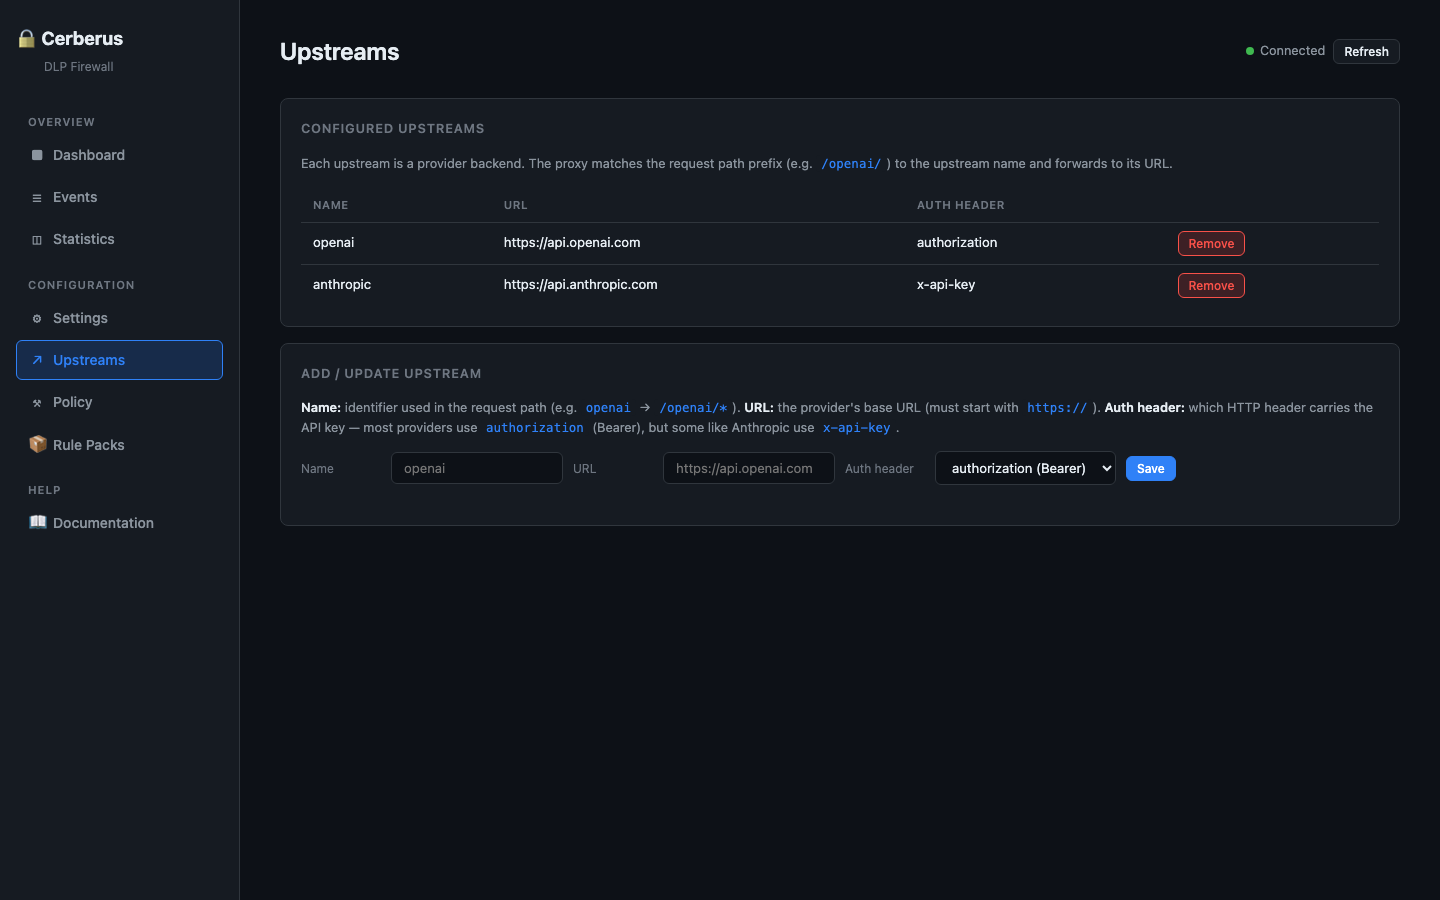
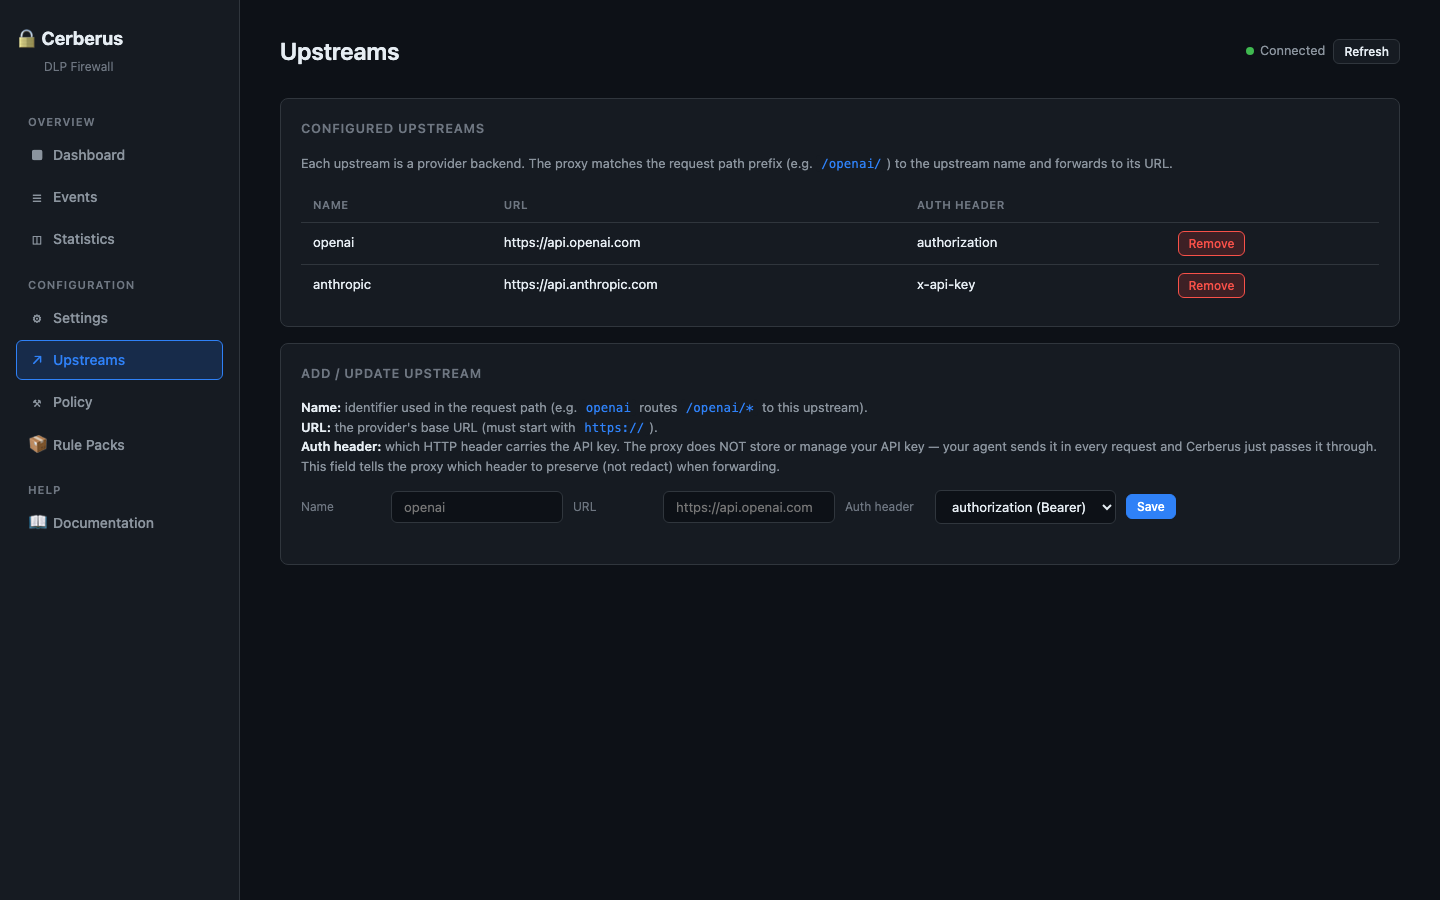
fix: render config edit form + clarify upstreams auth header
Two fixes:

1. Config edit form not rendering: the variable 'edit' was referenced
   before being declared (leftover from a refactor). Added the missing
   'const edit = document.getElementById("config-edit")' so the form
   with selects (mode, fail_policy, log_level) and inputs (listen,
   max_body_bytes, health_path) now renders correctly.

2. Upstreams auth header clarification: updated the description to
   explain that Cerberus does NOT store or manage the API key. The
   agent sends it in every request and Cerberus passes it through.
   The auth_header field tells the proxy which header to preserve
   (not redact) when forwarding.

Changed region(s): [[0.1875, 0.4356, 0.9375, 0.5911], [0.4688, 0.56, 0.625, 0.5911], [0.2812, 0.56, 0.3125, 0.5911]]

diff --git a/crates/cerberus-proxy/dashboard.html b/crates/cerberus-proxy/dashboard.html
@@ -733,9 +733,9 @@ input[type="password"] { width: 100%; max-width: 320px; }
       <div class="card">
         <div class="card-title">Add / Update Upstream</div>
         <p class="tab-desc">
-          <strong>Name:</strong> identifier used in the request path (e.g. <code>openai</code> → <code>/openai/*</code>).
-          <strong>URL:</strong> the provider's base URL (must start with <code>https://</code>).
-          <strong>Auth header:</strong> which HTTP header carries the API key — most providers use <code>authorization</code> (Bearer), but some like Anthropic use <code>x-api-key</code>.
+          <strong>Name:</strong> identifier used in the request path (e.g. <code>openai</code> routes <code>/openai/*</code> to this upstream).<br>
+          <strong>URL:</strong> the provider's base URL (must start with <code>https://</code>).<br>
+          <strong>Auth header:</strong> which HTTP header carries the API key. The proxy does NOT store or manage your API key — your agent sends it in every request and Cerberus just passes it through. This field tells the proxy which header to preserve (not redact) when forwarding.
         </p>
         <div class="form-row">
           <label>Name</label><input type="text" id="up-name" placeholder="openai">
@@ -1332,6 +1332,7 @@ function renderConfigTable(cfg) {
 
   // Edit form — use selects for fields with a fixed set of values,
   // text inputs only for free-form fields (listen, health_path).
+  const edit = document.getElementById('config-edit');
   if (edit) {
     edit.replaceChildren();
 
